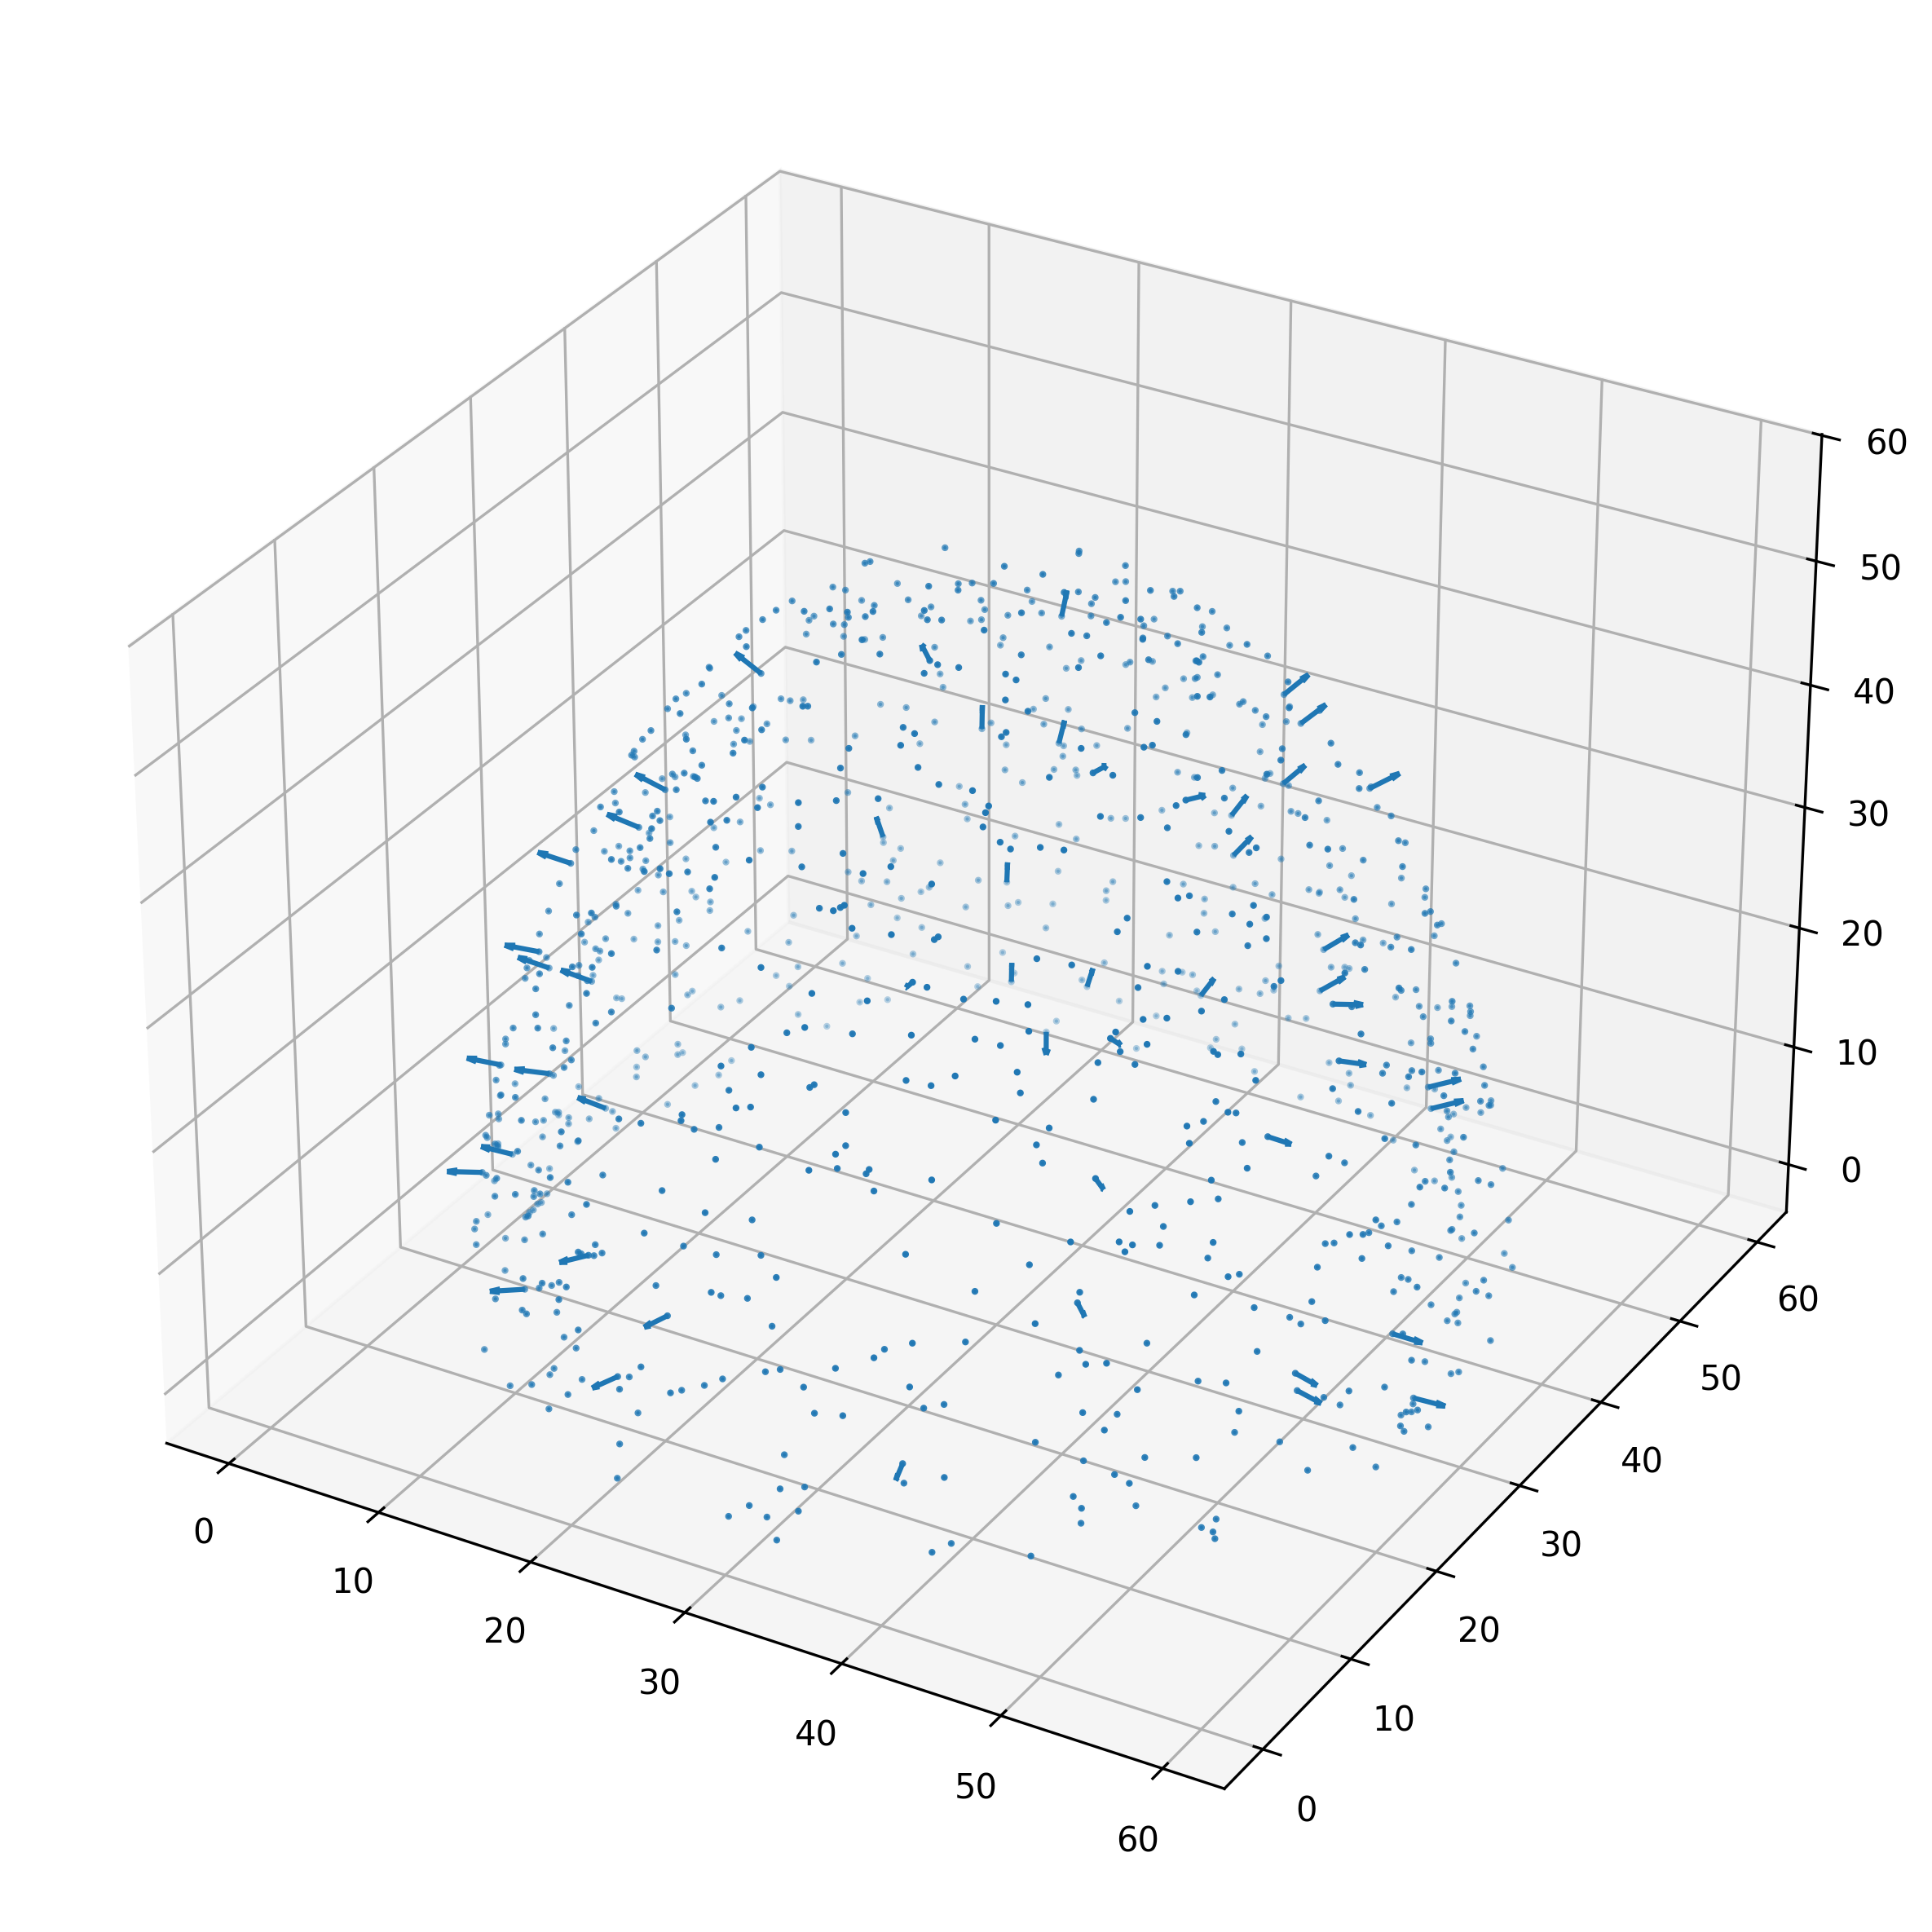
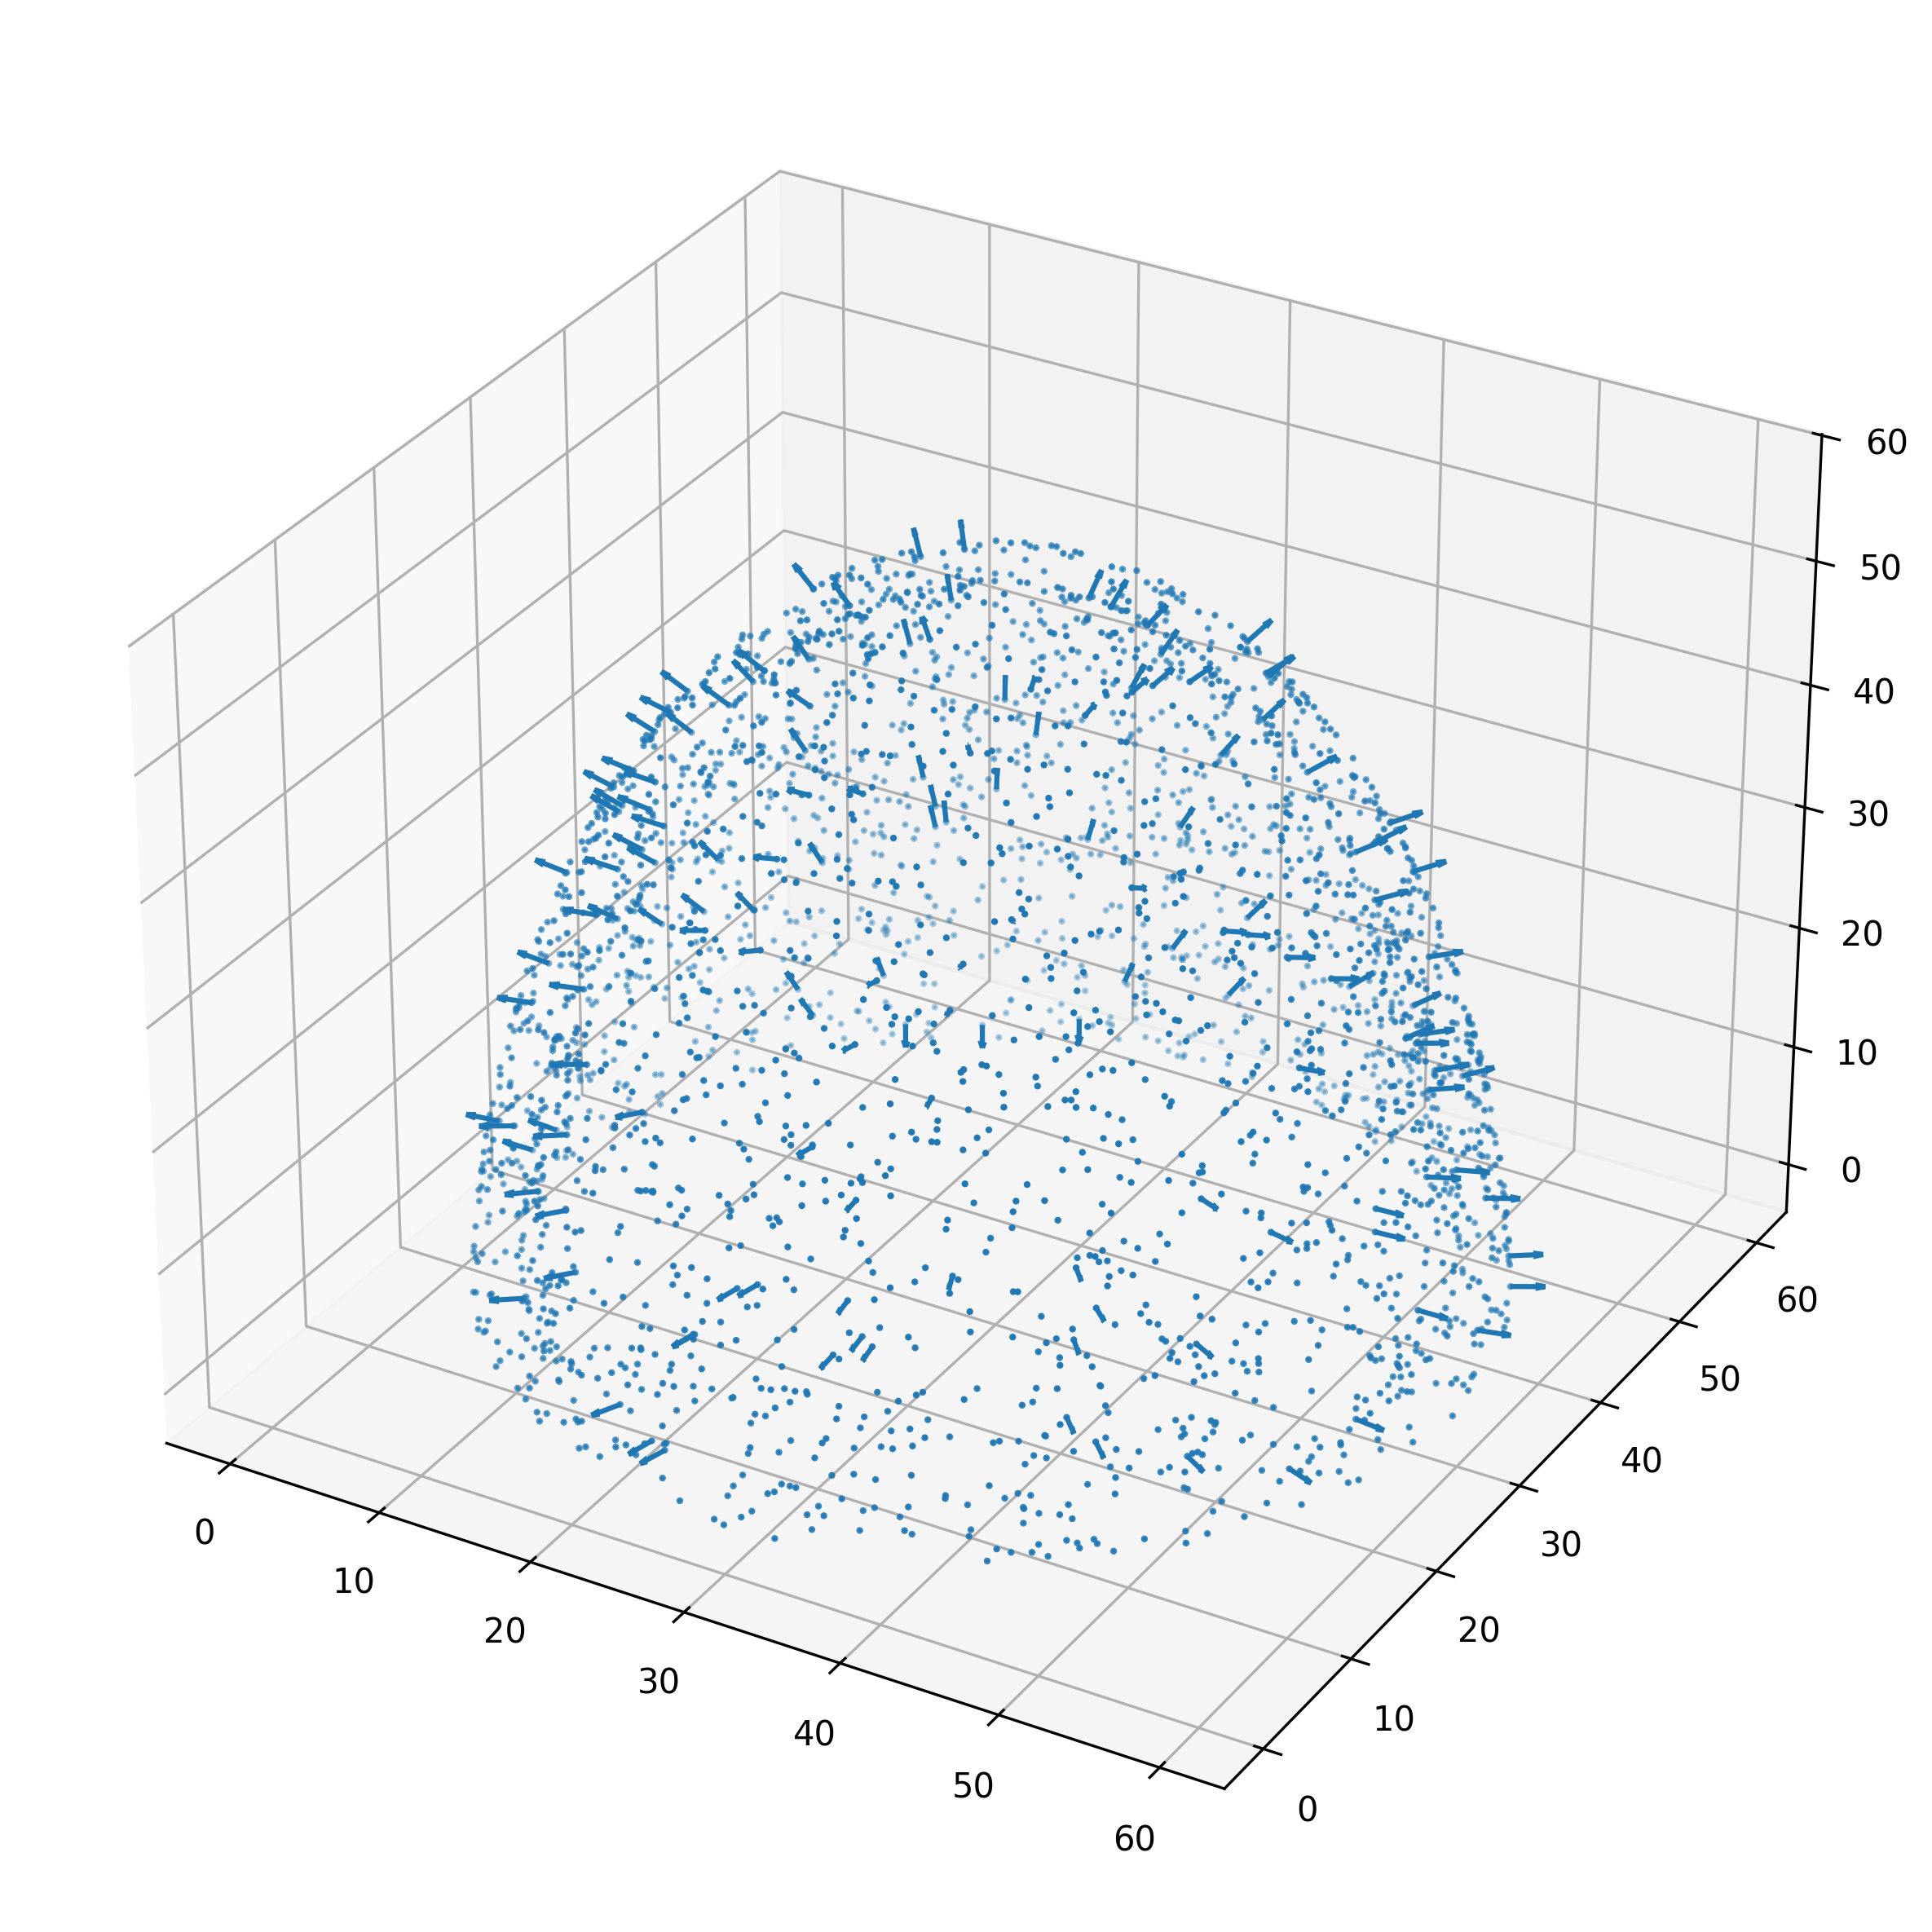
updated readme

diff --git a/pose_generation/generate_side_strip_poses.py b/pose_generation/generate_side_strip_poses.py
@@ -17,13 +17,17 @@ from pose_utils import (
 )
 
 # --- Parameters ---
-NUM_STRIPS = 12             # number of strips evenly distributed around the cone
-NUM_POINTS = 8           # number of touch points per strip (top → bottom)
-MIN_HEIGHT_FRACTION = 0.7  # lower bound as a fraction of cone height
+NUM_STRIPS = 15             # number of strips evenly distributed around the cone
+NUM_POINTS = 10           # number of touch points per strip (top → bottom)
+MIN_HEIGHT_FRACTION = 0.72  # lower bound as a fraction of cone height
                             # (0.0 = base, 1.0 = apex). Kept high so the lowest
-                            # touch band stays well above the base plane: the
-                            # sensor holder spreads radially and bumps the table
-                            # (a false press) if touches go too low on the cone.
+                            # band stays well above the base plane AND so the arm
+                            # config (esp. on the near side, toward the robot
+                            # base) keeps the wrist joints clear of the table.
+                            # Going too low (e.g. 0.6) dropped the near-side
+                            # wrist to ~49 mm and it grazed the table; 0.72 keeps
+                            # ~80 mm, matching the far side. Raise toward 0.75 for
+                            # more margin, lower for more lower-cone coverage.
 
 
 def cone_axis_from_calibration():
@@ -162,55 +166,52 @@ def main():
 
     
     colors = plt.cm.hsv(np.linspace(0, 1, NUM_STRIPS, endpoint=False))
+    P = df[["x", "y", "z"]].to_numpy()
 
-    # Cone-frame rotation: maps the cone axis -> +Z and the (u, v) radial basis
-    # to X/Y, so the cone stands upright. Identity leaves the robot base frame
-    # (showing the cone's real tilt). Both rotate display only — the generated
-    # poses in the CSV stay in the robot base frame.
-    R_cone = np.vstack([u, v, axis])
+    fig = plt.figure(figsize=(18, 9))
 
-    def draw(ax, to_pts, to_vec, labels, title, legend=False):
-        surf = to_pts(df[["x", "y", "z"]].to_numpy())
-        ax.scatter(surf[:, 0], surf[:, 1], surf[:, 2],
-                   c="dimgray", s=3, alpha=0.3, label="All surface points")
-        for strip_idx, strip_angle_raw in enumerate(strip_angles):
-            strip_df = poses_df[poses_df["strip"] == strip_idx]
-            pc = to_pts(strip_df[["x", "y", "z"]].to_numpy())
-            nc = to_vec(strip_df[["nx", "ny", "nz"]].to_numpy())
-            ax.scatter(pc[:, 0], pc[:, 1], pc[:, 2],
-                       c=[colors[strip_idx]], s=80, marker="o", zorder=5,
-                       label=f"Strip {strip_idx}  ({strip_angle_raw:.0f}°)")
-            ax.quiver(pc[:, 0], pc[:, 1], pc[:, 2],
-                      nc[:, 0], nc[:, 1], nc[:, 2],
-                      length=0.015, color=colors[strip_idx])
-        ax.set_xlabel(labels[0]); ax.set_ylabel(labels[1]); ax.set_zlabel(labels[2])
-        # Equal aspect so the cone shows true proportions (matplotlib's 3D
-        # default stretches each axis to fill a cube).
-        centers = (surf.max(axis=0) + surf.min(axis=0)) / 2
-        half = (surf.max(axis=0) - surf.min(axis=0)).max() / 2
-        ax.set_xlim(centers[0] - half, centers[0] + half)
-        ax.set_ylim(centers[1] - half, centers[1] + half)
-        ax.set_zlim(centers[2] - half, centers[2] + half)
-        ax.set_box_aspect((1, 1, 1))
-        ax.view_init(elev=22, azim=-60)
-        ax.set_title(title)
-        if legend:
-            ax.legend(loc="upper right", fontsize=6)
+    # --- 3D view (robot base frame) ---
+    ax3d = fig.add_subplot(121, projection="3d")
+    ax3d.scatter(P[:, 0], P[:, 1], P[:, 2],
+                 c="dimgray", s=3, alpha=0.3, label="All surface points")
+    for strip_idx, strip_angle_raw in enumerate(strip_angles):
+        strip_df = poses_df[poses_df["strip"] == strip_idx]
+        ax3d.scatter(strip_df["x"], strip_df["y"], strip_df["z"],
+                     c=[colors[strip_idx]], s=70, marker="o", zorder=5,
+                     label=f"Strip {strip_idx}  ({strip_angle_raw:.0f}°)")
+        ax3d.quiver(strip_df["x"], strip_df["y"], strip_df["z"],
+                    strip_df["nx"], strip_df["ny"], strip_df["nz"],
+                    length=0.015, color=colors[strip_idx])
+    ax3d.set_xlabel("X (m)"); ax3d.set_ylabel("Y (m)"); ax3d.set_zlabel("Z (m)")
+    # Equal aspect so the cone shows true proportions (matplotlib's 3D default
+    # stretches each axis to fill a cube).
+    centers = (P.max(axis=0) + P.min(axis=0)) / 2
+    half = (P.max(axis=0) - P.min(axis=0)).max() / 2
+    ax3d.set_xlim(centers[0] - half, centers[0] + half)
+    ax3d.set_ylim(centers[1] - half, centers[1] + half)
+    ax3d.set_zlim(centers[2] - half, centers[2] + half)
+    ax3d.set_box_aspect((1, 1, 1))
+    ax3d.view_init(elev=22, azim=-60)
+    ax3d.set_title("3D view")
+    ax3d.legend(loc="upper right", fontsize=6)
 
-    ident = lambda P: np.asarray(P, dtype=float)
-    cone_pts = lambda P: (np.asarray(P, dtype=float) - origin) @ R_cone.T
-    cone_vec = lambda V: np.asarray(V, dtype=float) @ R_cone.T
+    # --- Top view (looking straight down the cone axis) ---
+    ax2d = fig.add_subplot(122)
+    ax2d.scatter(P[:, 0], P[:, 1], c="dimgray", s=3, alpha=0.3)
+    L = 0.012   # arrow length (m) for the radial (X/Y) part of each normal
+    for strip_idx, strip_angle_raw in enumerate(strip_angles):
+        strip_df = poses_df[poses_df["strip"] == strip_idx]
+        ax2d.scatter(strip_df["x"], strip_df["y"],
+                     c=[colors[strip_idx]], s=40, zorder=5)
+        ax2d.quiver(strip_df["x"], strip_df["y"],
+                    strip_df["nx"] * L, strip_df["ny"] * L,
+                    color=colors[strip_idx], angles="xy",
+                    scale_units="xy", scale=1, width=0.004)
+    ax2d.set_xlabel("X (m)"); ax2d.set_ylabel("Y (m)")
+    ax2d.set_aspect("equal")
+    ax2d.set_title("Top view (down cone axis)")
 
-    fig = plt.figure(figsize=(20, 9))
-    draw(fig.add_subplot(121, projection="3d"), cone_pts, cone_vec,
-         ("X (m, cone frame)", "Y (m, cone frame)", "Height along cone axis (m)"),
-         "Cone frame (upright)", legend=True)
-    draw(fig.add_subplot(122, projection="3d"), ident, ident,
-         ("X (m)", "Y (m)", "Z (m)"),
-         "Robot base frame (true tilt)")
-    fig.suptitle(
-        f"Cone touch poses — {NUM_STRIPS} strips × {NUM_POINTS} points, "
-        f"height ≥ {MIN_HEIGHT_FRACTION * 100:.0f}% of cone")
+    fig.suptitle(f"Cone touch poses — {NUM_STRIPS} strips × {NUM_POINTS} points")
 
     os.makedirs(paths.FIGURES, exist_ok=True)
     plt.savefig(paths.SIDE_STRIP_PLOT, dpi=300, bbox_inches="tight")

diff --git a/ur_calibration/calibrate_icp.py b/ur_calibration/calibrate_icp.py
@@ -4,7 +4,6 @@ import sys
 import numpy as np
 import pandas as pd
 import trimesh
-import trimesh.registration
 
 # pose_utils.py and paths.py live one level up at the repo root.
 sys.path.insert(0, os.path.dirname(os.path.dirname(os.path.abspath(__file__))))
@@ -63,22 +62,29 @@ def main():
 
     print(f"Loaded {len(phys_points)} physical contact points and {len(stl_points)} STL points.")
 
-    T_init = np.eye(4)
-    T_init[:3, 3] = stl_apex - physical_apex
+    # Constrained calibration: keep the cone axis VERTICAL (robot +Z) instead of
+    # letting ICP rotate it freely. The calibration points all sit near the apex
+    # (top ~half of the cone), which barely constrains the axis orientation, so a
+    # free ICP fits a spurious ~20deg tilt. The cone physically stands upright on
+    # a level surface, so we fix the rotation (the STL +z, which is the cone's
+    # symmetry axis, -> robot +Z) and fit ONLY the position by translation-only
+    # ICP against the physical points. Rotation about the vertical is irrelevant
+    # for a surface of revolution, so it is left at identity.
+    from scipy.spatial import cKDTree
 
-    print("Running ICP...")
-    T_icp, _, cost = trimesh.registration.icp(
-        phys_points,
-        stl_points,
-        initial=T_init,
-        max_iterations=200,
-        scale=False,
-        reflection=False,
-    )
+    R_vert = np.eye(3)
+    t = physical_apex - stl_apex          # init: align apexes
+    print("Fitting position (cone axis pinned vertical)...")
+    for _ in range(100):
+        _, idx = cKDTree(stl_points + t).query(phys_points)
+        correction = (phys_points - (stl_points[idx] + t)).mean(axis=0)
+        t = t + correction
+        if np.linalg.norm(correction) < 1e-9:
+            break
 
-    print(f"ICP cost: {cost:.6f} m")
-
-    T_stl_to_robot = np.linalg.inv(T_icp)
+    T_stl_to_robot = np.eye(4)
+    T_stl_to_robot[:3, :3] = R_vert
+    T_stl_to_robot[:3, 3] = t
     np.savetxt(paths.ICP_MATRIX, T_stl_to_robot)
 
     ones = np.ones((len(stl_points), 1))

diff --git a/README.md b/README.md
@@ -19,7 +19,8 @@ cone.STL → surface points → ICP calibration → touch poses → robot execut
 | Force DAQ | NI-DAQ, read via pyForceDAQ (`nidaqmx` backend) |
 | Real robot IP | `192.168.0.110` (set as `REAL_HOST` in `pose_utils.py`) |
 | Simulation IP | `172.17.0.2` (URSim Docker) |
-| Communication port | `30003` (URScript command + 125 Hz robot-state stream) |
+| Touch-program port | `30002` (secondary client) — used by `run_side_strip_poses.py` so the streamed program does **not** suspend the state broadcast |
+| Command / state port | `30003` (single moves like home/start/stop, and the 125 Hz TCP-pose stream the recorder reads) |
 
 ---
 
@@ -128,9 +129,13 @@ Aligns the STL point cloud to the robot base frame using the physical touch poin
 python ur_calibration/calibrate_icp.py
 ```
 
+**Constrained to a vertical axis.** The calibration **pins the cone axis to the robot base +Z** and fits only the position (translation-only ICP). The reason: the calibration touch points all sit near the apex (top ~half of the cone), which barely constrains the axis *orientation* — a free ICP latches onto noise and produces a spurious ~20° tilt, making an upright cone look leaning in the base frame. Since the cone physically stands upright on a level surface, fixing the axis vertical removes that artifact and actually fits the points slightly better (RMS ≈ 2.2 mm vs 2.5 mm for the free fit). Rotation about the vertical is irrelevant for a surface of revolution, so it is left at identity.
+
+> This assumes the robot base is mounted vertical and the cone sits on a level surface. If your base is genuinely tilted, restore a free ICP instead.
+
 **Inputs:** `data/surface_points.csv`, `ur_calibration/physical_points.csv`, `data/cone.STL`  
 **Outputs:**
-- `ur_calibration/icp_transformation_matrix.txt` — 4×4 STL-to-robot transform
+- `ur_calibration/icp_transformation_matrix.txt` — 4×4 STL-to-robot transform (rotation = identity, i.e. cone upright)
 - `ur_calibration/surface_points_base.csv` — surface points (with normals) in robot base frame (meters)
 
 Calibration quality (mean/RMS/max error in mm) is printed on completion. Target: mean error < 5 mm.
@@ -166,15 +171,23 @@ python pose_generation/generate_touch_poses.py
 
 #### 6b — Side strips around the cone (top to bottom)
 
-Generates `NUM_STRIPS` vertical strips evenly distributed around the cone, each with `NUM_POINTS` touch points from the apex down to `MIN_HEIGHT_FRACTION` of the cone height. Each height band picks the surface point closest to the strip's target angle.
+Generates `NUM_STRIPS` vertical strips evenly distributed around the cone, each with `NUM_POINTS` touch points from near the apex down to `MIN_HEIGHT_FRACTION` of the cone height. All work is done in the cone's own axis frame (axis from the calibration, now vertical).
 
-To keep the printed sensor holder clear of the cone surface at lower touch points, the tool orientation is tilted toward vertical with height-scaled magnitude: 0° at the apex band up to `MAX_ORIENTATION_TILT_DEG` (15°) at the lowest band. Only the orientation tilts — the contact point and press direction stay on the true surface normal. The applied tilt is recorded per pose in the `tilt_deg` CSV column.
+Each contact point is **synthesized directly on the strip's meridian** rather than picking the nearest measured point. Because the cone is a surface of revolution, this gives:
+
+- **Straight strips** — every point of a strip sits at exactly the strip's azimuth, so the strip traces a clean line down the cone (no zig-zag from discrete sampling).
+- **Even spacing** — points are placed at evenly-spaced heights (band centres), with the local cone radius from a linear fit of the band's measured points.
+- **Clean normals** — the surface normal is taken from the nearest measured point, projected into the meridian plane and forced outward (handles the apex too).
+
+To keep the printed sensor holder clear of the cone and the wrist clear of the lower arm, the tool orientation is tilted toward vertical with a height-scaled magnitude: `MIN_ORIENTATION_TILT_DEG` (5°) at the apex band up to `MAX_ORIENTATION_TILT_DEG` (15°) at the lowest band. **Only the orientation tilts** — the contact point and press direction stay on the true surface normal — so the press stays near-perpendicular (≈5–15° off-normal). The applied tilt is recorded per pose in the `tilt_deg` CSV column.
 
 ```bash
 python pose_generation/generate_side_strip_poses.py
 ```
 
-**Output:** `data/cone_touch_poses.csv` (with `strip` and `strip_angle_deg` columns), `figures/cone_touch_poses.png`
+**Output:** `data/cone_touch_poses.csv` (with `strip`, `strip_angle_deg`, `tilt_deg` columns), `figures/cone_touch_poses.png`
+
+The plot has two panels: a **3D view** (robot base frame) and a **top-down view** along the cone axis (good for checking the strips are evenly distributed around the circle).
 
 ![Cone touch poses](figures/example_cone_touch_poses.png)
 
@@ -182,11 +195,11 @@ Key parameters at the top of the script:
 
 | Parameter | Default | Description |
 |---|---|---|
-| `NUM_STRIPS` | `4` | Strips evenly distributed around the cone |
-| `NUM_POINTS` | `8` | Touch points per strip (top → bottom) |
-| `MIN_HEIGHT_FRACTION` | `0.6` | Lower bound of the strips (fraction of cone height) |
+| `NUM_STRIPS` | `15` | Strips evenly distributed around the cone |
+| `NUM_POINTS` | `10` | Touch points per strip (top → bottom) |
+| `MIN_HEIGHT_FRACTION` | `0.72` | Lower bound of the strips (fraction of cone height). Kept high so the lowest band stays clear of the base plane **and** so the arm config keeps the wrist joints off the table (esp. on the near side toward the robot base). Lower it for more lower-cone coverage, at the cost of clearance. |
 
-Each row in all pose CSVs contains a paired approach pose (15 mm stand-off along the surface normal) and a press pose (10 mm into the surface).
+Both `NUM_STRIPS` and `NUM_POINTS` are free to change; the generator and executor adapt automatically. Each row in all pose CSVs contains a paired approach pose (`approach_distance` = 20 mm stand-off along the surface normal) and a press pose (`press_distance` = 20 mm into the surface).
 
 ---
 
@@ -216,7 +229,7 @@ python execution/start_pose.py
 
 ### Step 8 — Execute touch sequence
 
-Streams the full URScript program to the robot. For each pose: transit to approach → press → retract. Prompts for `sim` or `real` (speeds come from `A_sim`/`V_sim`/`A_real`/`V_real` in `pose_utils.py`). The robot returns to the start pose after all touches complete.
+Streams the full URScript program to the robot. For each pose: transit to approach → press → retract. Prompts for `sim` or `real`. The robot returns to the start pose after all touches complete.
 
 ```bash
 python execution/run_side_strip_poses.py
@@ -224,10 +237,15 @@ python execution/run_side_strip_poses.py
 
 Motion strategy (`execution/run_side_strip_poses.py`):
 
-- **Transits use `movej(get_inverse_kin(pose, qnear))`** — joint-space interpolation avoids the wrist/shoulder singularities that `movel` transits can pass through. Every IK call is biased toward a fixed safe reference configuration (`qnear`, the pre-pose) so solutions stay in the same branch and never wind up toward joint limits as the strips wrap around the cone.
-- **Press and retract use `movel`** — short, controlled linear motion along the surface normal.
-- **Strip changes go through a via point** 50 mm above the apex (`VIA_CLEARANCE_M`), so the transit from the bottom of one strip to the top of the next passes over the cone instead of through it.
-- Each transit logs the pose index, strip, and IK joint solution via `textmsg` — visible in the PolyScope Log tab to identify the failing pose after a protective stop.
+- **Inverse kinematics is solved in software** (`ur5_ik_near` in `pose_utils.py`, validated UR5 FK/IK) and transits command joint targets directly with **`movej([j1..j6])`**. The controller's `get_inverse_kin` is *not* used: it does a single Newton solve from one fixed seed, which cannot converge for poses spread all the way around the cone, leaving the arm reorienting without reaching the points. The seed is **chained from the previous solved pose within a strip** (smooth path) and **reset to the start config between strips** (so the base/wrist don't wind up as the strips wrap 360°). Unreachable poses are flagged and skipped.
+- **Press and retract use `movel`** — short, controlled linear motion along the surface normal, at the slow contact speed (`*_approach_*` in `pose_utils.py`).
+- **Between strips the tool lifts straight up** (`SAFE_LIFT_M` = 60 mm, base +Z) *before* the joint-space swing back to the start pose, so the `movej` arc cannot graze the cone (which otherwise registers a false press).
+- **Settle pauses are mode-dependent** (`SETTLE`): 0.1 s in sim, 0.5 s on real.
+- Each transit logs the pose index and strip via `textmsg` — visible in the PolyScope Log tab to identify the failing pose after a protective stop.
+
+> **Note on speeds:** because transits are now joint-space `movej`, `V_sim`/`A_sim`/`V_real`/`A_real` are joint speed/accel (rad/s, rad/s²); the `*_approach_*` values used by the `movel` press are linear (m/s, m/s²). Sim is pushed near the UR5 joint limit since there's no hardware to protect.
+
+> **Real-robot caveat:** the software IK uses the *ideal* UR5 DH parameters, which match URSim exactly. On hardware the calibrated DH differs by ~mm, so a joint-commanded approach (a hover point) may land a few mm off — harmless, and the `movel` press still hits the correct Cartesian target. Always dry-run in sim first.
 
 ---
 
@@ -280,7 +298,9 @@ Each detected press prints live (`Press N: peak Fz = … at TCP=[…]`). Press `
 | `<ts>_trajectory.csv` | Continuous `t, x,y,z,rx,ry,rz, speed, Fx,Fy,Fz, Fmag` (~125 Hz) |
 | `<ts>_presses.csv` | One row per detected press: peak `Fz` / `\|F\|` and the TCP pose at the peak |
 
-Detection thresholds and loop rate are constants at the top of `record_cone_press.py` (defaults: press starts at `0.5 N`, ends at `0.3 N`, 125 Hz). If `Fz` reads negative during contact, flip the threshold signs (the `reverse_parameter_names="Fz"` setting normally makes a press positive).
+Detection thresholds and loop rate are constants at the top of `record_cone_press.py` (defaults: press starts at `0.5 N`, ends at `0.3 N`; logged at `LOOP_HZ` = 125 Hz). If `Fz` reads negative during contact, flip the threshold signs (the `reverse_parameter_names="Fz"` setting normally makes a press positive).
+
+**DAQ sample rate:** the Nano17 runs in HW-timed single-point mode, so the host must service the device every sample; too high a rate overruns the DAQ buffer (NI error `-200714`). `SENSOR_RATE` (default `500` Hz) keeps comfortable headroom over the 125 Hz logging loop. Lower it (e.g. `250`) if the overrun recurs on a loaded machine.
 
 ### Sync recordings to the workstation
 
@@ -324,13 +344,13 @@ Sends `stopl(2.5)` directly to the real robot (`REAL_HOST` in `pose_utils.py`, `
 |---|---|
 | `requirements.txt` | Pinned workstation dependencies; recreate the venv with `pip install -r requirements.txt` |
 | `paths.py` | Central path config — absolute locations of all data files; imported by every script |
-| `pose_utils.py` | Geometry helpers (TCP↔contact conversion, normal→rotation vector, orientation tilt) and shared motion parameters (speeds, distances) |
+| `pose_utils.py` | Geometry helpers (TCP↔contact conversion, normal→rotation vector, orientation tilt), **UR5 forward/inverse kinematics** (`ur5_fk`, `ur5_ik_near`) used for offline IK, and shared motion parameters (speeds, distances, tilt limits) |
 | `data/cone.STL` | CAD model of the silicone cone tool |
 | `geometry/extract_points.py` | Sample surface points and normals from STL |
 | `cone_plots/cone_plot.py` | Visualise sampled surface point cloud |
 | `cone_plots/cone_plot_normals.py` | Visualise surface points with corrected outward normals |
 | `ur_calibration/record_icp_points.py` | Interactively record physical touch points from the teach pendant |
-| `ur_calibration/calibrate_icp.py` | ICP alignment of STL to robot base frame |
+| `ur_calibration/calibrate_icp.py` | Align STL to robot base frame — axis pinned vertical, translation-only fit (avoids the spurious tilt a free ICP gets from apex-clustered points) |
 | `ur_calibration/validate_calibration.py` | Verify calibration quality against recorded points |
 | `pose_generation/generate_touch_poses.py` | Generate approach/press poses for the full surface |
 | `pose_generation/generate_side_strip_poses.py` | Generate poses for multiple strips around the cone, top to bottom |
@@ -363,17 +383,20 @@ Defined in `pose_utils.py` and the generator scripts:
 | Tool tip offset | `[0, 0, 0.086]` m | `pose_utils.py` |
 | Start clearance | `0.01` m (10 mm above apex) | `pose_utils.py` |
 | Default start orientation | `[-2.2, 2.2, 0.0]` rad | `pose_utils.py` |
-| Approach stand-off | `0.015` m | `pose_utils.py` |
-| Press depth | `0.01` m | `pose_utils.py` |
-| Max orientation tilt | `15°` (scaled with height) | `pose_utils.py` |
-| Sim transit speed / accel | `V_sim = 1` m/s, `A_sim = 2.5` m/s² | `pose_utils.py` |
-| Real transit speed / accel | `V_real = 0.5` m/s, `A_real = 0.3` m/s² | `pose_utils.py` |
-| Real approach (contact) speed / accel | `V_approach_real = 0.05` m/s, `A_approach_real = 0.1` m/s² | `pose_utils.py` |
-| Sim approach (contact) speed / accel | `V_approach_sim = 0.25` m/s, `A_approach_sim = 1.0` m/s² | `pose_utils.py` |
-| Inter-strip via clearance | `0.05` m above apex | `execution/run_side_strip_poses.py` |
-| Number of strips | `4` (evenly around the cone) | `pose_generation/generate_side_strip_poses.py` |
-| Side strip lower bound | `0.6` (60 % from base) | `pose_generation/generate_side_strip_poses.py` |
+| Approach stand-off | `0.02` m | `pose_utils.py` |
+| Press depth | `0.02` m | `pose_utils.py` |
+| Orientation tilt (off-normal) | `5°` apex band → `15°` lowest band (`MIN/MAX_ORIENTATION_TILT_DEG`) | `pose_utils.py` |
+| Sim transit speed / accel (joint) | `V_sim = 3` rad/s, `A_sim = 8` rad/s² | `pose_utils.py` |
+| Real transit speed / accel (joint) | `V_real = 0.4` rad/s, `A_real = 0.2` rad/s² | `pose_utils.py` |
+| Sim approach (contact) speed / accel | `V_approach_sim = 1` m/s, `A_approach_sim = 2.5` m/s² | `pose_utils.py` |
+| Real approach (contact) speed / accel | `V_approach_real = 0.02` m/s, `A_approach_real = 0.01` m/s² | `pose_utils.py` |
+| Lift before return to start | `SAFE_LIFT_M = 0.06` m (base +Z) | `execution/run_side_strip_poses.py` |
+| Settle pause (sim / real) | `0.1` s / `0.5` s | `execution/run_side_strip_poses.py` |
+| Number of strips | `15` (evenly around the cone) | `pose_generation/generate_side_strip_poses.py` |
+| Points per strip | `10` (apex → lower bound) | `pose_generation/generate_side_strip_poses.py` |
+| Side strip lower bound | `0.72` (72 % from base) | `pose_generation/generate_side_strip_poses.py` |
 | Press detect threshold | `0.5` N on / `0.3` N off | `pyForceDAQ/record_cone_press.py` |
-| Force sample / log rate | `125` Hz | `pyForceDAQ/record_cone_press.py` |
+| DAQ sample rate | `SENSOR_RATE = 500` Hz | `pyForceDAQ/record_cone_press.py` |
+| Force log rate | `125` Hz (`LOOP_HZ`) | `pyForceDAQ/record_cone_press.py` |
 | Force sensor | `FT12876` (Nano17) | `pyForceDAQ/record_cone_press.py` |
 